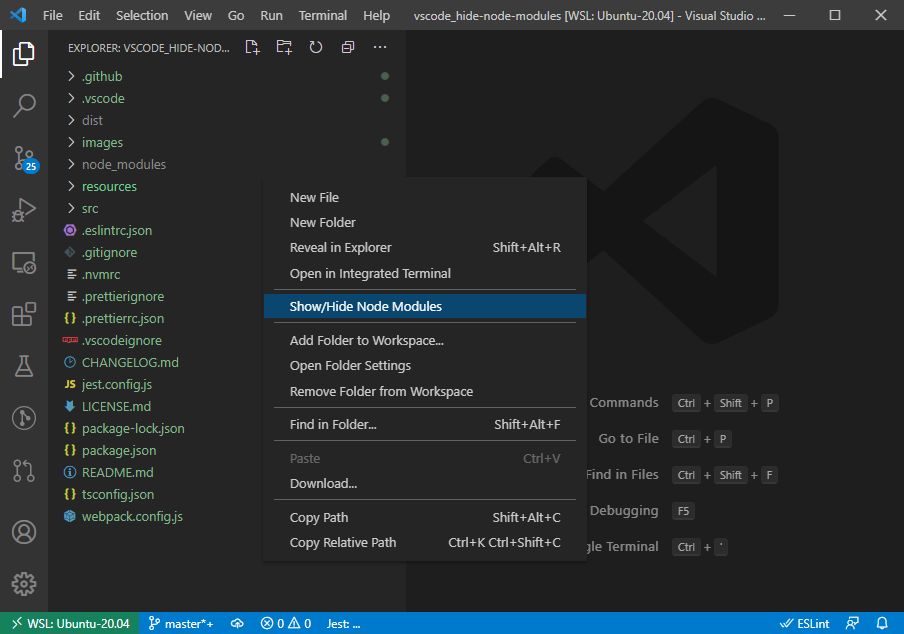
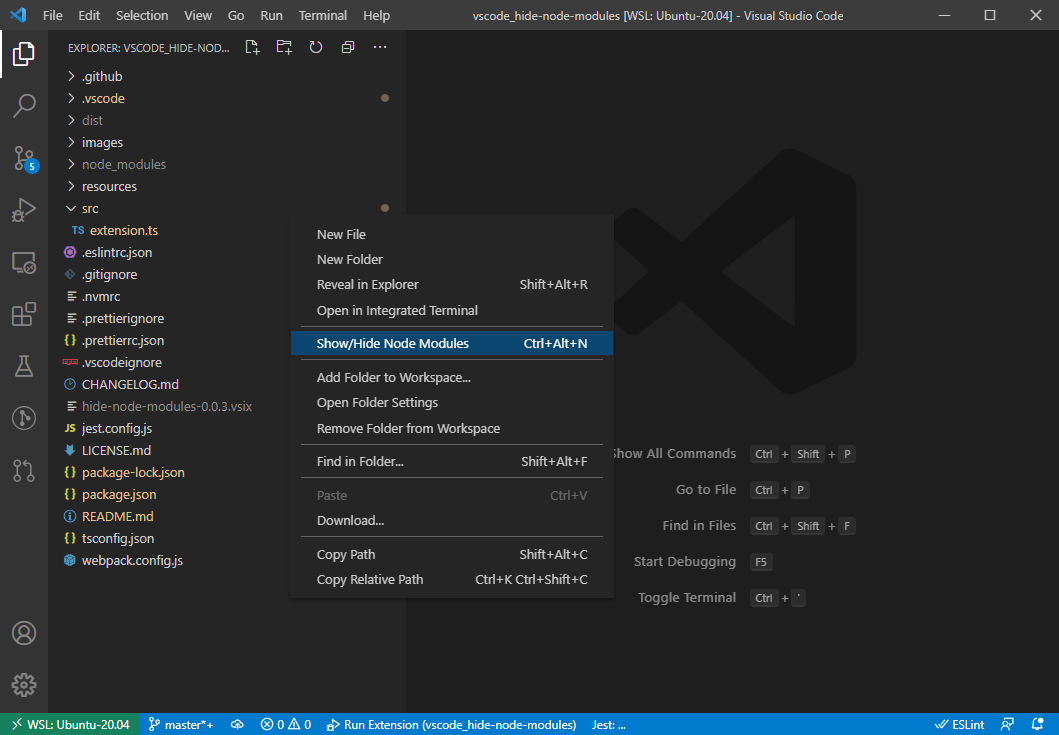
feat(configuration): added configuration setting to default hiding node_modules

diff --git a/src/extension.ts b/src/extension.ts
@@ -1,37 +1,55 @@
 import * as vscode from 'vscode';
 
-const packageJsonWatcher = vscode.workspace.createFileSystemWatcher('**/package*.json', false, true, false);
+interface Excluded {
+  [property: string]: boolean;
+}
+
+const AUTO_HIDE_SETTING = 'hide-node-modules.enable';
+const EXCLUDE = 'files.exclude';
+const FILE_FILE_PATTERN = '**package*.json';
+const FILE_WATCHER_PATTERN = '**/package*.json';
+const NODE_MODULES = '**/node_modules';
+const SHOW_HIDE_COMMAND = 'hide-node-modules.hide';
+
+const packageJsonWatcher = vscode.workspace.createFileSystemWatcher(FILE_WATCHER_PATTERN, false, true, false);
+const enableCommand = async () => vscode.commands.executeCommand('setContext', 'hide-node-modules:containsPackageJson', await hasPackageJson());
 
 function hideNodeModules(hide: boolean): void {
   const config = vscode.workspace.getConfiguration();
-  const excluded = config.get("files.exclude", {});
-
-  // eslint-disable-next-line @typescript-eslint/no-explicit-any
-  (excluded as any)['**/node_modules'] = hide;
-  config.update("files.exclude", excluded);
+  const excluded: Excluded = config.get(EXCLUDE, {});
+  excluded[NODE_MODULES] = hide;
+  config.update(EXCLUDE, excluded);
 }
 
 function isNodeModulesVisible(): boolean {
-  const config = vscode.workspace.getConfiguration();
-  const excluded = config.get("files.exclude", {});
-
-  // eslint-disable-next-line @typescript-eslint/no-explicit-any
-  return (excluded as any)['**/node_modules'];
+  const excluded: Excluded = vscode.workspace.getConfiguration().get(EXCLUDE, {});
+  return excluded[NODE_MODULES];
 } 
 
-async function containsPackageJson(): Promise<boolean> {
-  return (await vscode.workspace.findFiles('**package*.json')).length > 0;
+function getAutoHideSetting(): boolean {
+  return vscode.workspace.getConfiguration().get(AUTO_HIDE_SETTING, false);
 }
 
-const showHideCommand = async () => vscode.commands.executeCommand('setContext', 'hide-node-modules:containsPackageJson', await containsPackageJson());
+function previouslySet(): boolean {
+  const excluded = vscode.workspace.getConfiguration().get(EXCLUDE, {});
+  return NODE_MODULES in excluded;
+}
+
+async function hasPackageJson(): Promise<boolean> {
+  return (await vscode.workspace.findFiles(FILE_FILE_PATTERN)).length > 0;
+}
 
 export async function activate(): Promise<void> {
-  packageJsonWatcher.onDidCreate(async () => showHideCommand());
-  packageJsonWatcher.onDidDelete(async () => showHideCommand());
+  packageJsonWatcher.onDidCreate(async () => enableCommand());
+  packageJsonWatcher.onDidDelete(async () => enableCommand());
 
-  showHideCommand(); 
+  if (!previouslySet() && getAutoHideSetting()) {
+    hideNodeModules(true);
+  }
+
+  enableCommand(); 
   
-  vscode.commands.registerCommand('hide-node-modules.hide', async () => {
+  vscode.commands.registerCommand(SHOW_HIDE_COMMAND, async () => {
     hideNodeModules(!isNodeModulesVisible());
   });
 }

diff --git a/README.md b/README.md
@@ -4,14 +4,16 @@
 
 # Hide Node Modules README
 
-This VSCode extension adds the ability to show and hide the node modules folder from within the file explorer, via a context-menu, shortcut keys or the command palette.  The option to hide/show the node_modules folder is only available if a pacakge.json or package-lock.json is detected within the current workspace folder.
+This VSCode extension adds the ability to show and hide the node modules folder from within the explorer, via a context-menu, shortcut keys or the command palette.  The option to hide/show the node_modules folder is only available if a pacakge.json or package-lock.json is detected within the current workspace folder.
 
 ![Hide Node Modules VSCode Extension](https://raw.githubusercontent.com/chrisbibby/vscode_hide-node-modules/master/resources/hide-node-modules_screenshot_01.png 'Hide Node Modules')
 
 ## Features
 
 - Show and hide the node_modules folder
-- File Explorer context menu 
+- Explorer context menu 
+- Auto hide node_modules when opening a new folder
+- Status bar indicator when hiding a node_module folder
 
 ## How to use
 

diff --git a/CHANGELOG.md b/CHANGELOG.md
@@ -4,6 +4,15 @@ All notable changes to the "Hide Node Modules" VScode extension will be document
 
 ### [Released]
 
+#### v0.0.3
+
+- Added auto-hide setting
+- Added status bar indicator
+
+#### v0.0.2
+- Fixed broken image
+- Added shortcut keys
+
 #### v0.0.1
 
 - Initial release
